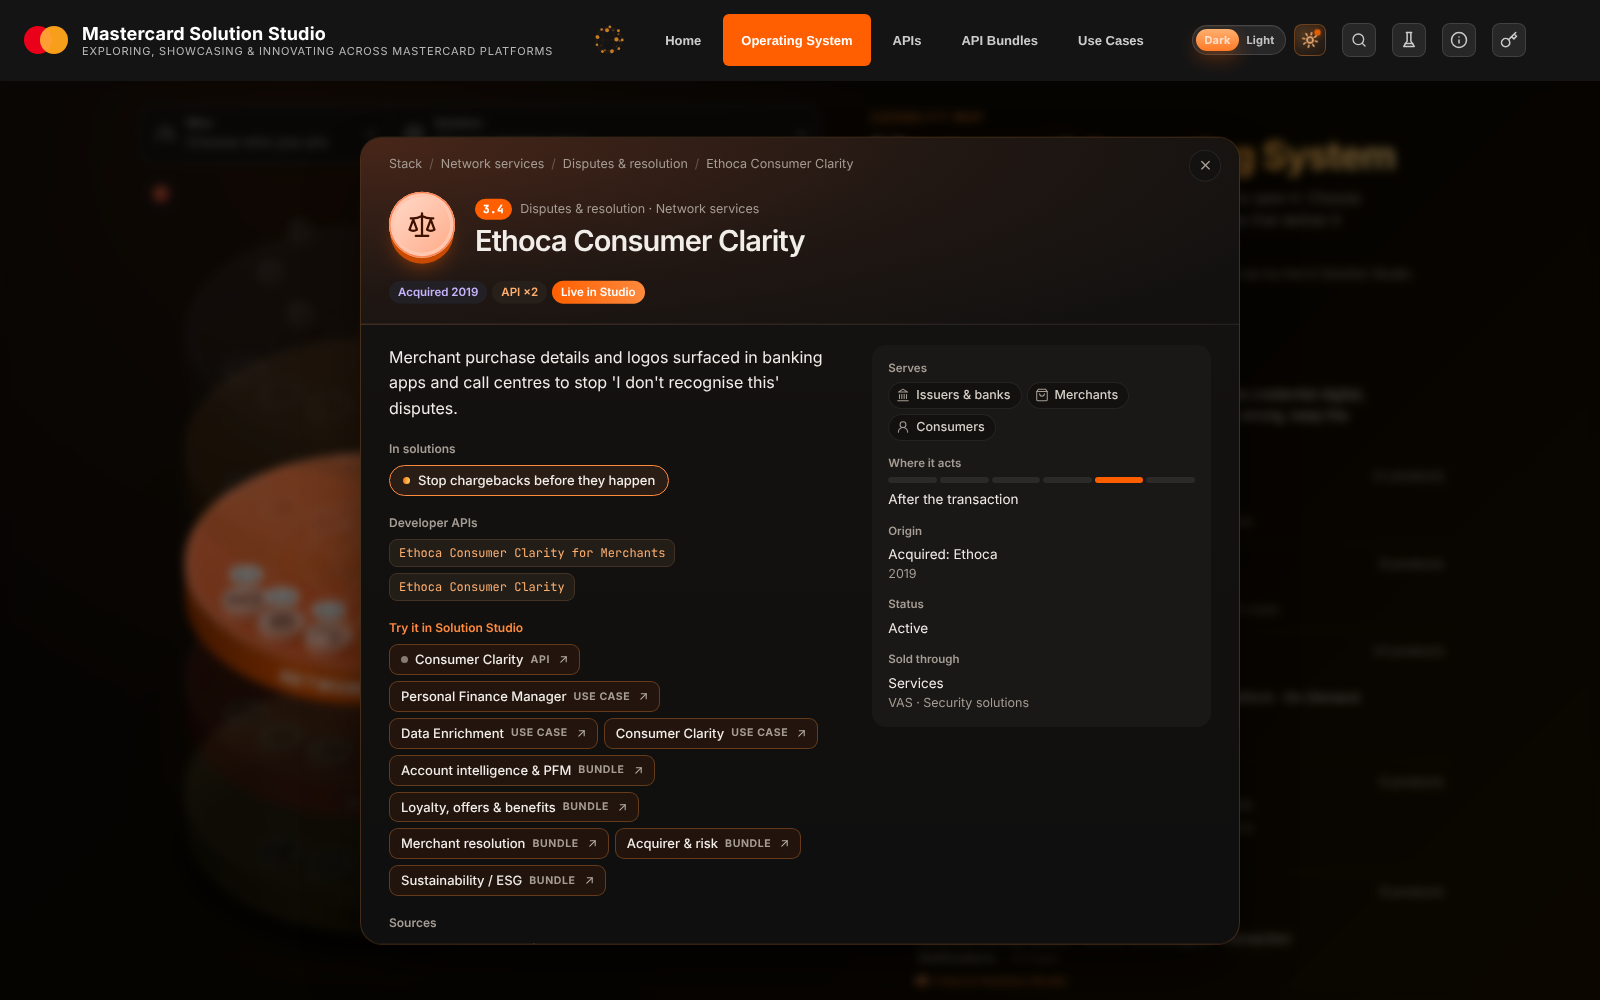
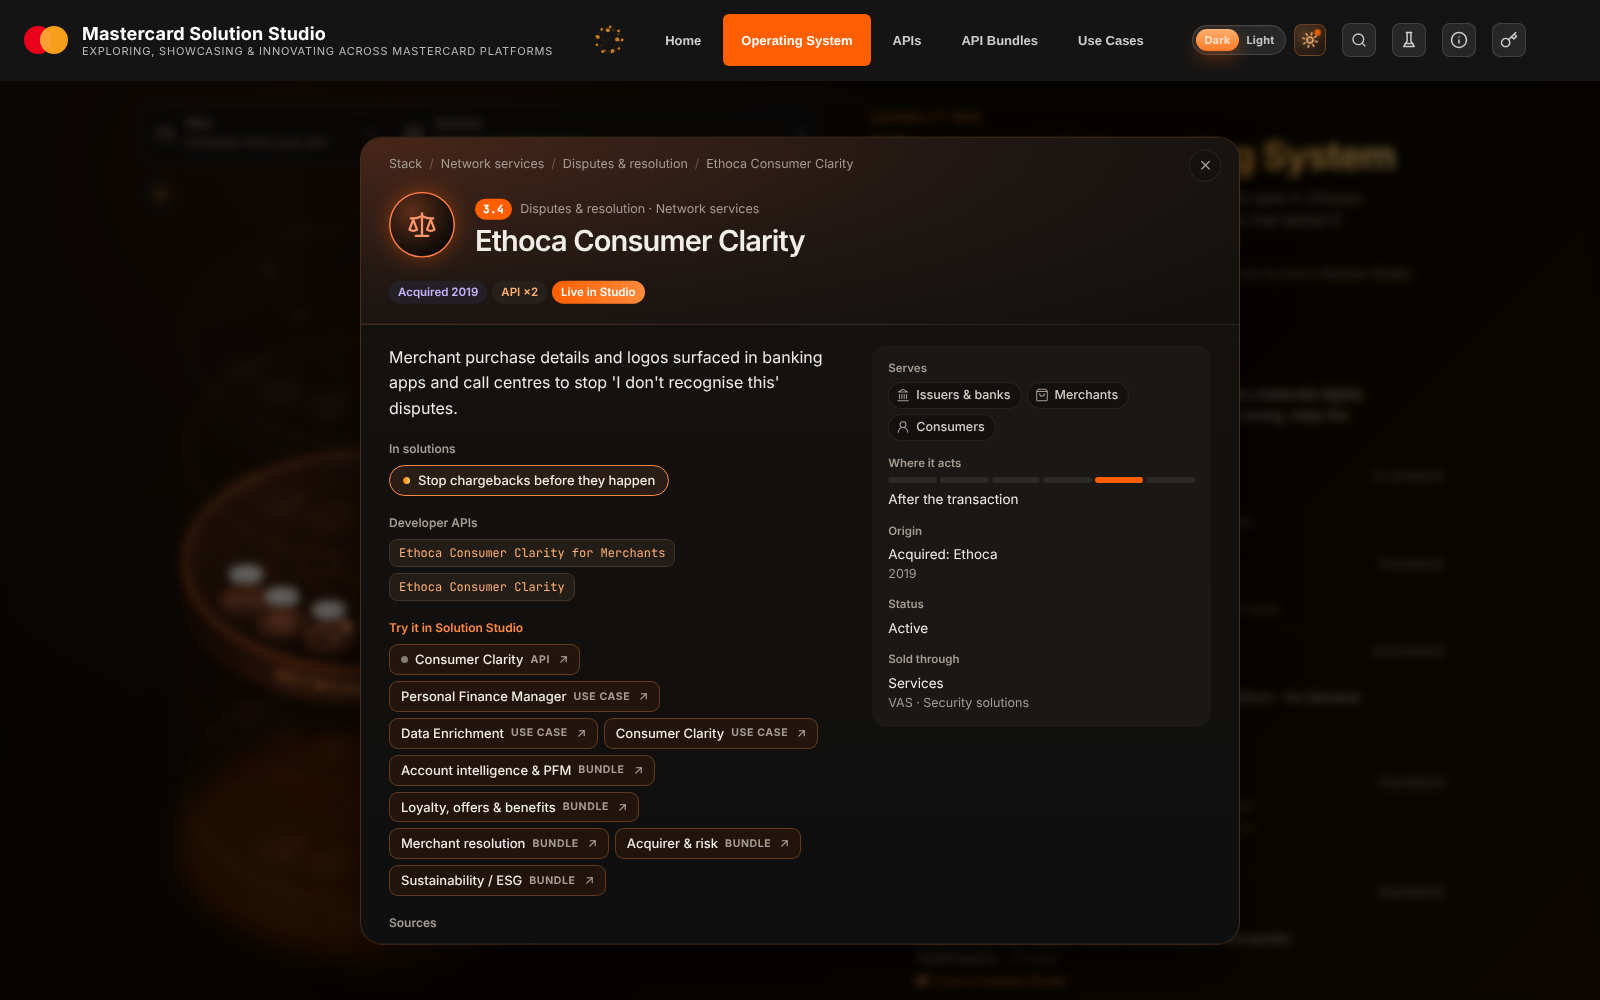
style: give the Operating System picture the Home globe's look
The layer picture kept maos's solid red, orange and gold shapes, which
sat apart from Solution Studio's dark, glowing wireframe globe. Restyle
it inside the embed (the vendored file stays unedited):

- Opening globe: an orange wireframe with fine glowing dots and a soft
  halo, like the Home globe, instead of a solid sphere. Light mode uses
  the Home globe's black grid and dark dots.
- Discs: dark glass plates tinted by their layer, with rims that glow in
  the layer colour and the circuit drawn like the globe's grid. Pads are
  dark pucks with lit icons; users are dark tokens on a faint orbit.
  Light mode uses frosted white plates.
- Layer colours move to Solution Studio's palette (warm gold kernel,
  red, orange, yellow, warm grey access); the dialog's badge becomes the
  same glowing puck.

mcos-bridge.js re-points the picture's gradients at --mc-* tokens after
each build (so the theme toggle applies live) and draws the globe's dots
smaller. tools/sync_mcos.py now also checks for the gradients and globe
names the bridge relies on.

Claude-Session: https://claude.ai/code/session_015rQiWWfcsa5pM5ShzRQ7ui

diff --git a/mcos/web/mcos-theme.css b/mcos/web/mcos-theme.css
@@ -1,12 +1,16 @@
 /* Solution Studio skin for the Mastercard Operating System layer picture.
 
    Loaded after the vendored picture's own <style>, so it only has to re-point
-   tokens and the few colours the picture hard-codes. The layer colours (gold
-   kernel, red rails, orange services, yellow solutions) already follow the
-   card brand and stay; the picture's gold "selection" accent becomes Solution
-   Studio's orange, its cool greys become warm ones, and its fonts become
-   Inter and JetBrains Mono. usecase-theme.js sets data-theme on <html> from
-   the shell's light/dark toggle. */
+   tokens and the few colours the picture hard-codes. The picture itself takes
+   the look of the Home tab's globe: the opening globe is an orange wireframe
+   with glowing dots instead of a solid sphere, and the discs are dark glass
+   plates (frosted white in light mode) whose edges glow in their layer's
+   colour, with the circuit drawn like the globe's grid. The --mc-* tokens
+   below feed the picture's gradients (re-pointed by mcos-bridge.js). The
+   picture's gold "selection" accent becomes Solution Studio's orange, its
+   cool greys become warm ones, and its fonts become Inter and JetBrains Mono.
+   usecase-theme.js sets data-theme on <html> from the shell's light/dark
+   toggle. */
 
 :root {
   --font: "Inter", -apple-system, BlinkMacSystemFont, "Segoe UI", Roboto, Helvetica, Arial, sans-serif;
@@ -30,10 +34,26 @@ html:root:not([data-theme="light"]) {
   --s-new: #34d399; --s-flux: #f2b84b; --s-retired: #f87171;
   --gold: #ff7a26; --gold-deep: #ff8a3d; --gold-ink: #ffb070;
   --gold-grad: linear-gradient(100deg, #ff6a00 0%, #ffb347 60%, #ffd280 100%);
-  --l5: #d6cfc7; --lu: #857c73; --l5f: #5f5852; --luf: #6e665f;
+  --l5: #d6cfc7; --lu: #857c73;
+  --l1f: #ffc24d; --l2f: #eb001b; --l3f: #ff5f00; --l4f: #f79e1b; --l5f: #a59c93; --luf: #857c73;
+  --l1t: #ffd27a; --l2t: #ff6b7a; --l3t: #ff9448; --l4t: #ffc04d; --l5t: #e8e2db;
   --slot: #050505; --shadow: rgba(0, 0, 0, 0.7);
-  --wash-a: rgba(255, 95, 0, 0.12); --wash-b: rgba(247, 158, 27, 0.07);
+  --wash-a: rgba(255, 140, 0, 0.13); --wash-b: rgba(255, 94, 0, 0.06);
   --studio-ok: #34d399;
+  /* the picture */
+  --mc-plate: #17110c; --mc-plate-deep: #070504;
+  --mc-top-tint: 24%; --mc-top-tint-lo: 7%;
+  --mc-side-tint: 32%; --mc-side-tint-lo: 12%;
+  --mc-pad: #1d1610; --mc-pad-tint: 36%; --mc-pad-tint-lo: 14%;
+  --mc-edge-mix: #fff; --mc-ico-mix: #fff;
+  --mc-utok-hi: #2c2219; --mc-utok: #110c08; --mc-uico: #ffcf9a;
+  --mc-grid: rgba(255, 120, 0, 0.32); --mc-grid-strong: rgba(255, 140, 40, 0.6);
+  --mc-dot: #ffa028; --mc-dot-alpha: 0.9; --mc-dot-glow: #ff8c00; --mc-dot-glow-alpha: 0.45;
+  --mc-globe-a: rgba(255, 140, 0, 0.12); --mc-globe-b: rgba(255, 94, 0, 0.06);
+  --mc-globe-c: rgba(255, 94, 0, 0.03); --mc-globe-d: rgba(255, 94, 0, 0.1);
+  --mc-cut-a: rgba(255, 140, 0, 0.3); --mc-cut-b: rgba(255, 94, 0, 0.12);
+  --mc-globe-hl: #ffb070; --mc-globe-rim: #ff7a1a; --mc-halo: #ff8c00;
+  --mc-underglow: rgba(255, 95, 0, 0.22);
 }
 
 /* ---------- light ---------- */
@@ -46,9 +66,25 @@ html:root[data-theme="light"] {
   --c1: #c2410c;
   --gold: #ff7a1a; --gold-deep: #e65c00; --gold-ink: #b84a00;
   --gold-grad: linear-gradient(100deg, #e65100 0%, #ff7a1a 60%, #f59e0b 100%);
-  --l5: #2a2a2a; --lu: #6b6b6b; --l5f: #4a4540; --luf: #a59c93;
-  --wash-a: rgba(255, 95, 0, 0.10); --wash-b: rgba(247, 158, 27, 0.08);
+  --l5: #2a2a2a; --lu: #6b6b6b;
+  --l1f: #e0a100; --l2f: #eb001b; --l3f: #ff5f00; --l4f: #f79e1b; --l5f: #6b6b6b; --luf: #a59c93;
+  --l1t: #8a5a00; --l2t: #b8001a; --l3t: #c24400; --l4t: #a8690a; --l5t: #2a2a2a;
+  --wash-a: rgba(255, 140, 0, 0.10); --wash-b: rgba(0, 0, 0, 0.03);
   --studio-ok: #1f9d55;
+  /* the picture */
+  --mc-plate: #ffffff; --mc-plate-deep: #efe9e1;
+  --mc-top-tint: 13%; --mc-top-tint-lo: 5%;
+  --mc-side-tint: 26%; --mc-side-tint-lo: 10%;
+  --mc-pad: #ffffff; --mc-pad-tint: 24%; --mc-pad-tint-lo: 9%;
+  --mc-edge-mix: #000; --mc-ico-mix: #000;
+  --mc-utok-hi: #ffffff; --mc-utok: #ede7de; --mc-uico: #2a2a2a;
+  --mc-grid: rgba(0, 0, 0, 0.22); --mc-grid-strong: rgba(0, 0, 0, 0.38);
+  --mc-dot: #141414; --mc-dot-alpha: 0.55; --mc-dot-glow: #000000; --mc-dot-glow-alpha: 0;
+  --mc-globe-a: rgba(0, 0, 0, 0.02); --mc-globe-b: rgba(0, 0, 0, 0.012);
+  --mc-globe-c: rgba(0, 0, 0, 0.008); --mc-globe-d: rgba(0, 0, 0, 0.04);
+  --mc-cut-a: rgba(0, 0, 0, 0.1); --mc-cut-b: rgba(0, 0, 0, 0.04);
+  --mc-globe-hl: #ffffff; --mc-globe-rim: rgba(0, 0, 0, 0.3); --mc-halo: rgba(0, 0, 0, 0.22);
+  --mc-underglow: rgba(0, 0, 0, 0.16);
 }
 
 /* ---------- page ---------- */
@@ -120,6 +156,56 @@ html:not([data-theme="light"]) .prod.open { background: rgba(255, 255, 255, 0.03
 .fwho rect { fill: var(--lit-ink); }
 .fwho text { fill: var(--lit); }
 .step .no { color: var(--lit); background: var(--lit-ink); box-shadow: inset 0 0 0 1px var(--lit); }
+
+/* ---------- the picture, in the style of the Home globe ---------- */
+/* Each layer's accent, for the rules below. */
+.layer[data-l="L1"] { --k: var(--l1f); }
+.layer[data-l="L2"] { --k: var(--l2f); }
+.layer[data-l="L3"] { --k: var(--l3f); }
+.layer[data-l="L4"] { --k: var(--l4f); }
+.layer[data-l="L5"] { --k: var(--l5f); }
+.layer[data-l="U"] { --k: var(--luf); }
+
+/* Plates: glowing rims, faint seams, the circuit drawn like the globe's grid. */
+.slabtop { stroke: color-mix(in oklab, var(--k) 82%, var(--mc-edge-mix)); stroke-width: 1.3; }
+html:not([data-theme="light"]) .slabtop { filter: drop-shadow(0 0 5px color-mix(in oklab, var(--k) 65%, transparent)); }
+.face { stroke: color-mix(in oklab, var(--k) 40%, transparent); }
+.bev { stroke: var(--k); stroke-opacity: 0.6; }
+.bev.lo { stroke: var(--k); stroke-opacity: 0.22; }
+.decor { stroke: var(--mc-grid); stroke-opacity: 1; }
+.decor .hub { stroke: var(--mc-grid-strong); }
+.guide, .orbit { stroke: var(--mc-grid); }
+.shadow { fill: var(--mc-underglow); }
+.eng { letter-spacing: 0.14em; }
+html:not([data-theme="light"]) .eng { filter: drop-shadow(0 0 4px rgba(0, 0, 0, 0.9)); }
+
+/* Pads: dark pucks with a coloured rim and a lit icon. */
+.blk .ft { stroke: color-mix(in oklab, var(--k) 75%, var(--mc-edge-mix)); stroke-width: 1; }
+.blk .fs { stroke: color-mix(in oklab, var(--k) 30%, transparent); }
+.ring { stroke: color-mix(in oklab, var(--k) 45%, transparent); }
+.ico { stroke: color-mix(in oklab, var(--k), var(--mc-ico-mix) 28%) !important; }
+
+/* Users: dark tokens on a faint orbit. */
+.usr { stroke: var(--mc-grid-strong); }
+.uico { stroke: var(--mc-uico); }
+
+/* The opening globe: the Home tab's wireframe globe, cut into five plates. */
+#intro .gb { stroke: var(--mc-grid); }
+#intro .gtp { stroke: var(--mc-grid-strong); }
+#gsurf #glat, #gsurf #gmer { stroke: var(--mc-grid); stroke-opacity: 1; }
+#gsurf #gland { fill: var(--mc-dot); fill-opacity: var(--mc-dot-alpha); }
+#gsurf .lglow { fill: var(--mc-dot-glow); opacity: var(--mc-dot-glow-alpha); }
+#grim { stroke: var(--mc-grid-strong); stroke-opacity: 1; stroke-width: 1; }
+.again circle { fill: var(--mc-globe-a); stroke: var(--mc-grid-strong); stroke-width: 0.8; }
+.again g { stroke: var(--mc-dot); }
+
+/* The dialog's puck: the same dark puck, glowing in its layer's colour. */
+html:not([data-theme="light"]) .dpuck {
+  background: radial-gradient(circle at 35% 30%, color-mix(in oklab, var(--lcf) 32%, #1d1610), #0c0907 75%);
+  box-shadow: inset 0 0 0 1.5px color-mix(in oklab, var(--lcf), #fff 15%),
+    0 0 24px -4px color-mix(in oklab, var(--lcf) 60%, transparent);
+}
+html:not([data-theme="light"]) .dpuck svg { stroke: color-mix(in oklab, var(--lcf), #fff 30%); }
 
 /* ---------- what is live in Solution Studio ---------- */
 /* Pads: an orange marker on areas with something to try in Studio. */

diff --git a/mcos/web/mcos-bridge.js b/mcos/web/mcos-bridge.js
@@ -17,7 +17,7 @@
 /* The vendored picture's top-level names (checked by tools/sync_mcos.py). */
 /* global MAP, st, OUTCOMES, LAYERS, TILE, PADS, sraf:writable, st0:writable, reduce, f, esc,
    spin, renderSide, renderPick, openTile, openProduct, closeDrawer, drawerOpen, setFocus, pickOut,
-   clearPick, openStack, closeStack, endIntro */
+   clearPick, openStack, closeStack, endIntro, DOTS, phi, OX, GR, GY, DEG */
 (function () {
   "use strict";
   if (typeof MAP === "undefined" || typeof st === "undefined" || typeof openProduct !== "function") return;
@@ -167,8 +167,91 @@
       title.textContent = n + " live in Solution Studio";
     });
   }
+  /* Solution Studio's look for the picture itself. The picture paints its
+     discs and its opening globe with gradients built in build(), coloured
+     straight from the layer tokens. Point each stop at the --mc-* tokens in
+     mcos-theme.css instead: the discs become dark glass plates tinted by
+     their layer (frosted white in light mode), and the globe becomes the
+     Home tab's wireframe globe, a faint glow rather than a solid sphere.
+     The values are CSS variables, so the light/dark toggle applies without
+     a rebuild. */
+  function mix(k, tint, base) {
+    return "color-mix(in oklab, var(--l" + k + "f) var(" + tint + "), var(" + base + "))";
+  }
+  var STOPS = { ug: ["var(--mc-utok-hi)", "var(--mc-utok)"] };
+  for (var k = 1; k <= 5; k++) {
+    STOPS["st" + k] = [mix(k, "--mc-top-tint", "--mc-plate"), mix(k, "--mc-top-tint-lo", "--mc-plate-deep")];
+    STOPS["gs" + k] = [mix(k, "--mc-side-tint-lo", "--mc-plate-deep"), mix(k, "--mc-side-tint", "--mc-plate"),
+      mix(k, "--mc-side-tint-lo", "--mc-plate"), mix(k, "--mc-side-tint-lo", "--mc-plate-deep")];
+    STOPS["bt" + k] = [mix(k, "--mc-pad-tint", "--mc-pad"), mix(k, "--mc-pad-tint-lo", "--mc-pad")];
+    STOPS["gc" + k] = [mix(k, "--mc-pad-tint-lo", "--mc-pad"), mix(k, "--mc-side-tint-lo", "--mc-plate-deep")];
+  }
+  // The opening globe: [colour, opacity] per stop.
+  var GLOBE = {
+    gg: [["var(--mc-globe-a)"], ["var(--mc-globe-a)"], ["var(--mc-globe-b)"], ["var(--mc-globe-c)"], ["var(--mc-globe-d)"]],
+    gt: [["var(--mc-cut-a)"], ["var(--mc-cut-b)"]],
+    ghl: [["var(--mc-globe-hl)", ".22"], ["var(--mc-globe-hl)", ".05"], ["var(--mc-globe-hl)", "0"]],
+    grl: [["var(--mc-globe-rim)", "0"], ["var(--mc-globe-rim)", ".3"], ["var(--mc-globe-rim)", ".6"]],
+    // The halo's first stop also fills the sphere, which is now see-through:
+    // keep it as faint as the Home globe's inner glow.
+    gha: [["var(--mc-halo)", ".12"], ["var(--mc-halo)", ".1"], ["var(--mc-halo)", ".04"], ["var(--mc-halo)", "0"]],
+  };
+  function restyleDefs() {
+    var svg = document.getElementById("svg");
+    if (!svg) return;
+    Object.keys(STOPS).forEach(function (id) {
+      var g = svg.querySelector("#" + id);
+      if (!g) return;
+      g.querySelectorAll("stop").forEach(function (stop, i) {
+        if (STOPS[id][i]) stop.style.setProperty("stop-color", STOPS[id][i]);
+      });
+    });
+    Object.keys(GLOBE).forEach(function (id) {
+      var g = svg.querySelector("#" + id);
+      if (!g) return;
+      g.querySelectorAll("stop").forEach(function (stop, i) {
+        var v = GLOBE[id][i];
+        if (!v) return;
+        stop.style.setProperty("stop-color", v[0]);
+        if (v[1] !== undefined) stop.setAttribute("stop-opacity", v[1]);
+      });
+    });
+  }
+
+  /* The globe's continents, drawn as in the picture but with smaller dots,
+     nearer the Home globe's fine dot sphere. Replaces the picture's
+     drawGlobe(), which spin() calls by name every frame. */
+  var DOT_SCALE = 0.58;
+  window.drawGlobe = function () {
+    var land = document.getElementById("gland"), mer = document.getElementById("gmer"), lat = document.getElementById("glat");
+    if (!land) return;
+    var d = "";
+    for (var i = 0; i < DOTS.length; i++) {
+      var q = DOTS[i], a = q[2] + phi, z = q[0] * Math.cos(a);
+      if (z < .14) continue;
+      var x = OX + GR * q[0] * Math.sin(a), y = GY - GR * q[1], r = GR * .0285 * DOT_SCALE * (.16 + .84 * z);
+      d += "M" + f(x - r) + "," + f(y) + "a" + f(r) + "," + f(r) + " 0 1,0 " + f(2 * r) + ",0a" + f(r) + "," + f(r) + " 0 1,0 " + f(-2 * r) + ",0";
+    }
+    land.setAttribute("d", d);
+    var m = "";
+    for (var k = 0; k < 12; k++) {
+      var ang = k * 30 * DEG + phi, c = Math.cos(ang), sn = Math.sin(ang);
+      if (c <= .02) continue;
+      m += "M" + OX + "," + (GY - GR) + "A" + f(Math.max(.01, GR * Math.abs(sn))) + "," + GR + " 0 0 " + (sn > 0 ? 1 : 0) + " " + OX + "," + (GY + GR);
+    }
+    mer.setAttribute("d", m);
+    if (!lat.getAttribute("d")) {
+      var n = LAYERS.length, h = 2 * GR / n, l = "";
+      for (var j = 1; j < n; j++) {
+        var yy = GY + GR - j * h, rr = Math.sqrt(GR * GR - (yy - GY) * (yy - GY));
+        l += "M" + f(OX - rr) + "," + f(yy) + "H" + f(OX + rr);
+      }
+      lat.setAttribute("d", l);
+    }
+  };
+
   var _layout = window.layout;
-  window.layout = function () { _layout(); markPads(); };
+  window.layout = function () { _layout(); restyleDefs(); markPads(); };
 
   /* ---------- where the picture is, for the shell's URL ---------- */
   function current() {
@@ -277,6 +360,8 @@
 
   function start(links) {
     if (links && links.products) LINKS = links;
+    restyleDefs();
+    if (st.p < .1) window.drawGlobe();
     markPads();
     renderSide();
     var h0 = location.hash.slice(1);

diff --git a/tools/sync_mcos.py b/tools/sync_mcos.py
@@ -42,7 +42,12 @@ REQUIRED_NAMES = (
     "MAP", "st", "OUTCOMES", "LAYERS", "TILE", "PADS", "sraf", "st0", "reduce", "f", "esc",
     "spin", "layout", "renderSide", "renderPick", "detailHtml", "tagHtml", "openTile",
     "openProduct", "closeDrawer", "drawerOpen", "setFocus", "pickOut", "clearPick",
-    "openStack", "closeStack", "endIntro",
+    "openStack", "closeStack", "endIntro", "drawGlobe", "DOTS", "phi", "OX", "GR", "GY", "DEG",
+)
+# Gradients mcos-bridge.js re-colours (restyleDefs), as the picture builds them.
+REQUIRED_SNIPPETS = (
+    'lg("st"+k', 'lg("gs"+k', 'lg("bt"+k', 'lg("gc"+k',
+    'id="ug"', 'id="gg"', 'id="gt"', 'id="ghl"', 'id="grl"', 'id="gha"',
 )
 
 
@@ -51,6 +56,9 @@ def check(src: str) -> list[str]:
     for name in REQUIRED_NAMES:
         if not re.search(rf"(?:\bfunction\s+{name}\s*\(|\b(?:const|let|var)\s+[^;]*?\b{name}\s*=)", src):
             problems.append(f"the picture no longer defines {name!r}, which mcos-bridge.js uses")
+    for snippet in REQUIRED_SNIPPETS:
+        if snippet not in src:
+            problems.append(f"the picture no longer builds {snippet!r}, which mcos-bridge.js re-colours")
     if "</style>" not in src:
         problems.append("no </style> to split the head from the body at")
     products = set(re.findall(r'\bP\("([a-z0-9]+)",', src))
